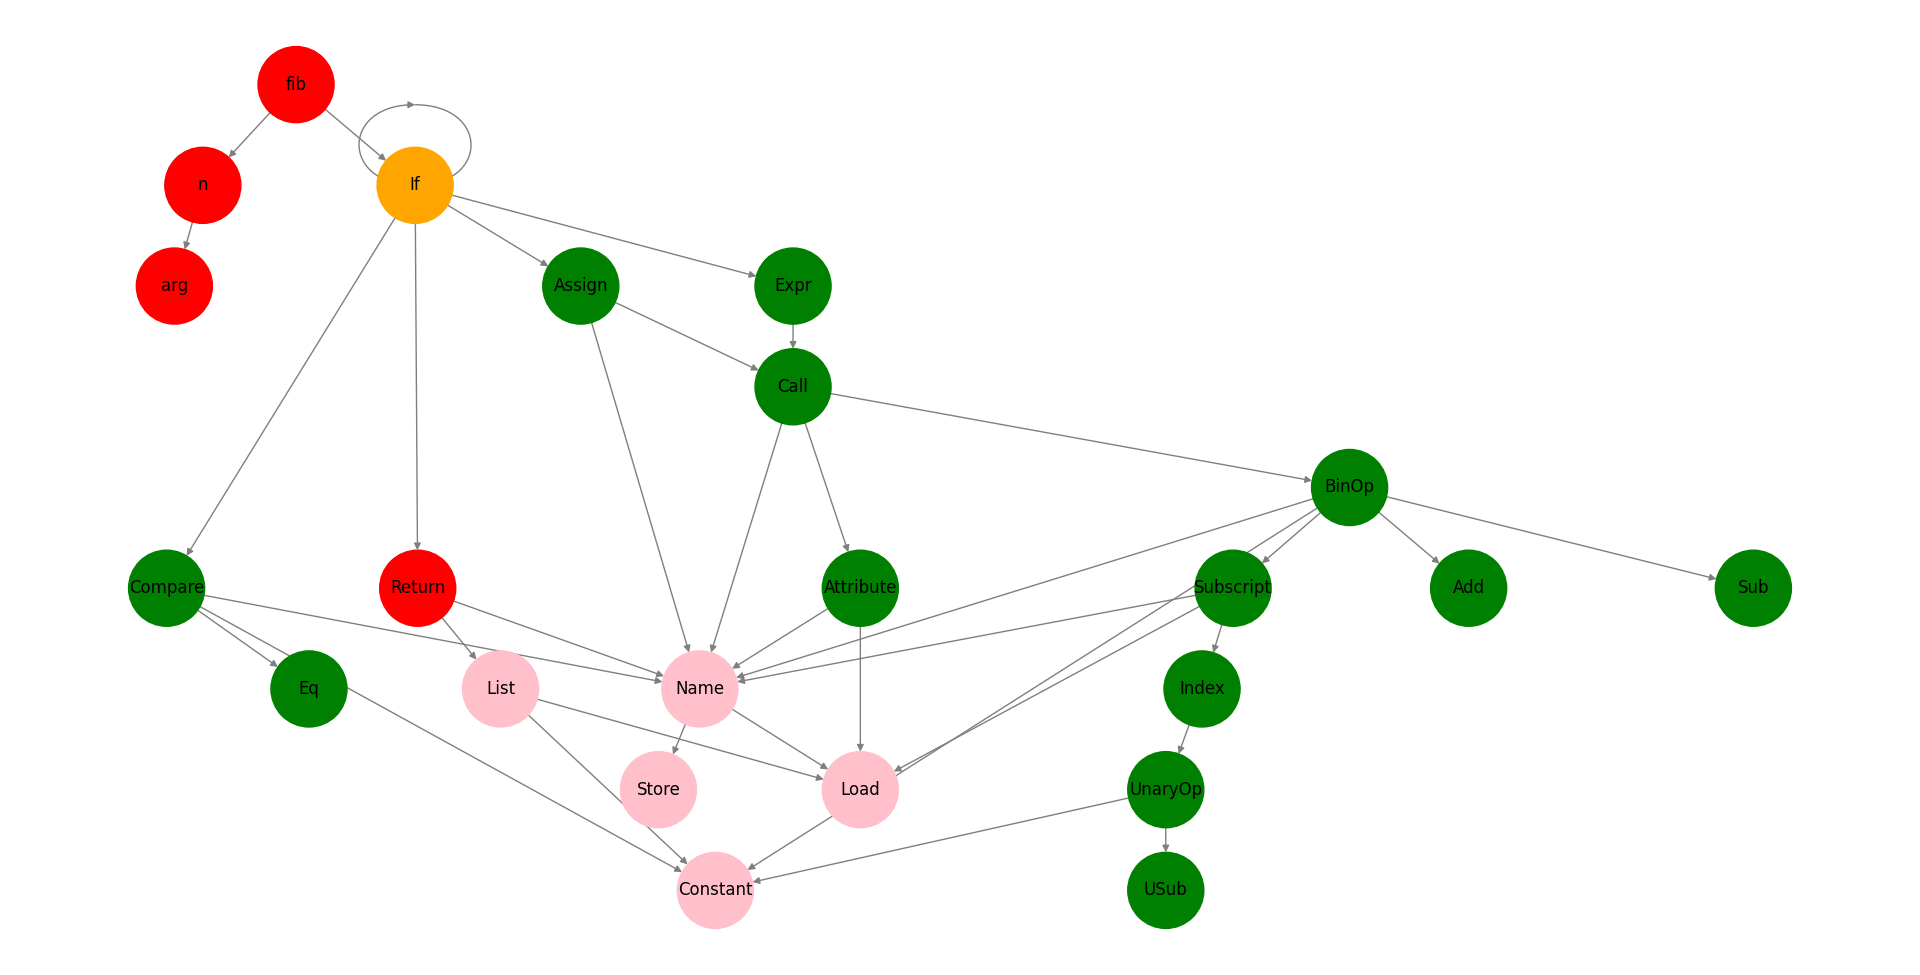
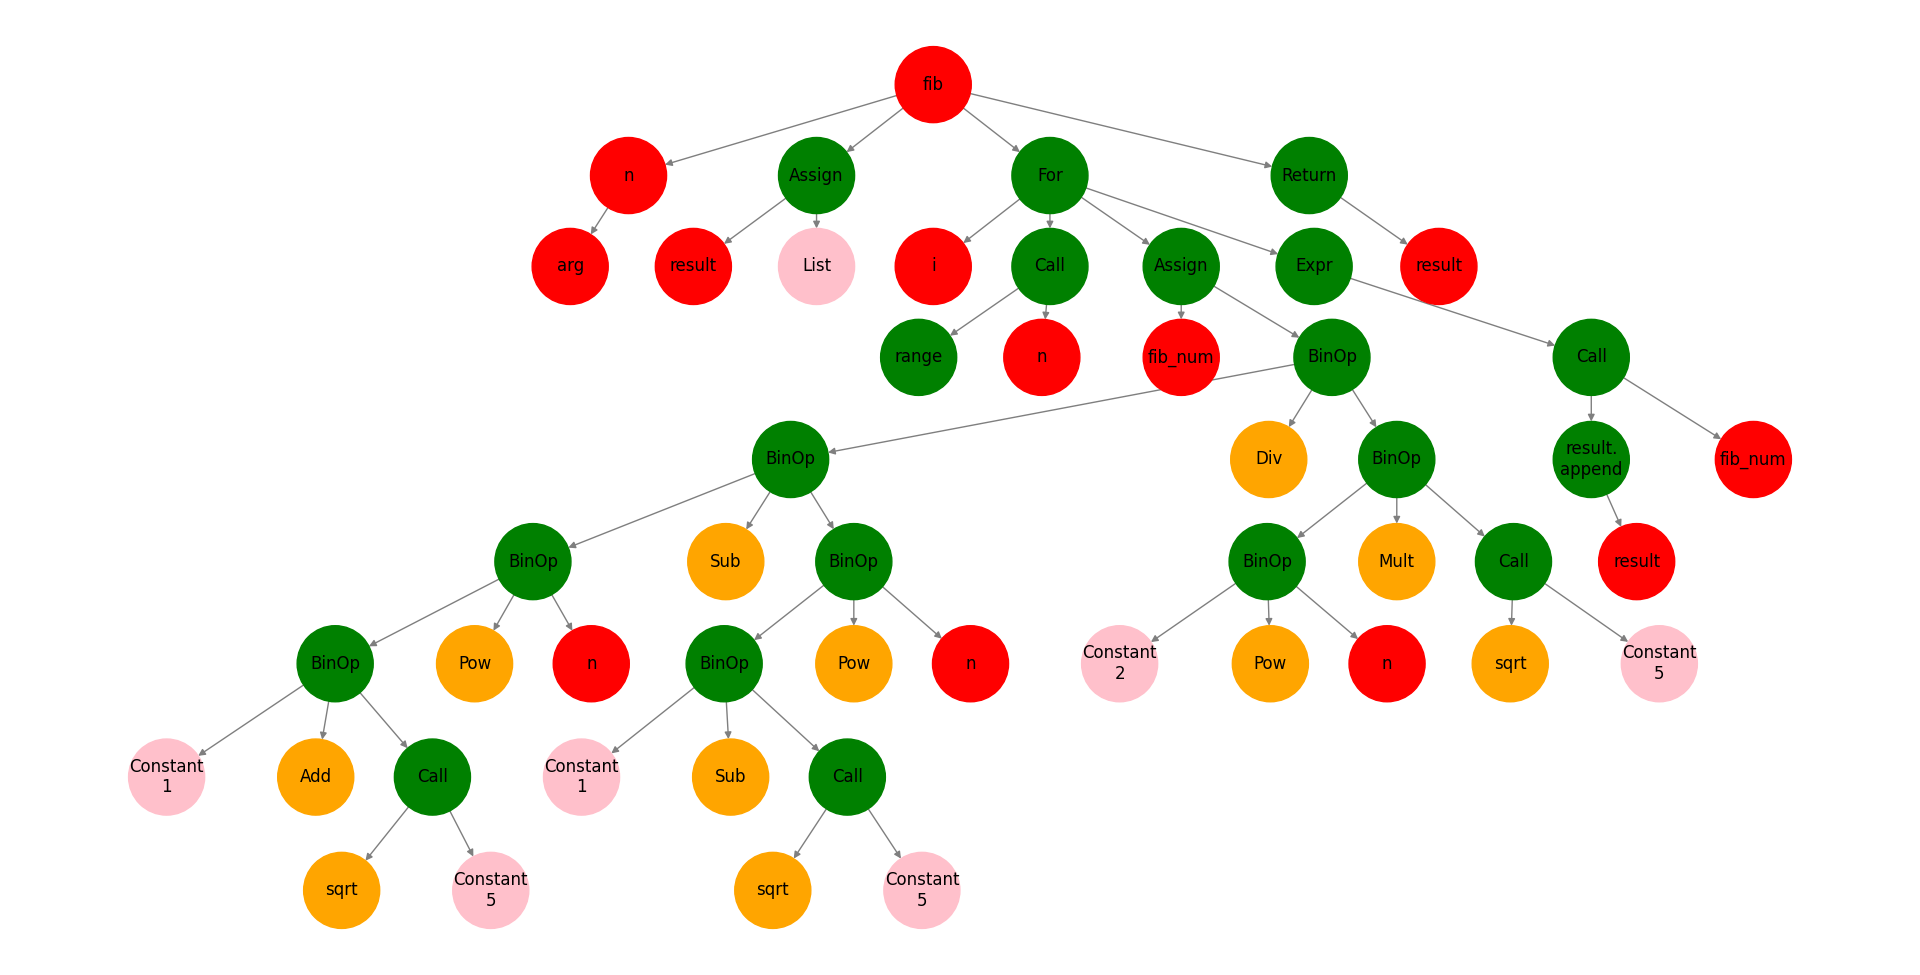
Fix hw 1 hard part

diff --git a/hw_1/hw_1.py b/hw_1/hw_1.py
@@ -1,50 +1,56 @@
 import ast
 import inspect
+import uuid
 from collections import deque
+from math import sqrt
 
+import astunparse
 import matplotlib.pyplot as plt
 import networkx as nx
 from networkx.drawing.nx_pydot import graphviz_layout
 
-
 ast_literals = ['Constant', 'List']
-ast_vars = ['Name', 'Load', 'Store']
-ast_control_flow = ['If']
+ast_math = ['Add', 'Sub', 'sqrt', 'Pow', 'Mult', 'Div']
 ast_expressions = [
     'Compare', 'Expr', 'Call', 'BinOp', 'Add', 'Eq', 'Sub', 'Subscript',
-    'UnaryOp', 'USub', 'Index', 'Attribute',
+    'UnaryOp', 'USub', 'Index', 'Attribute', 'For', 'Return'
 ]
 ast_statements = ['Assign']
-ast_functions = ['fib', 'Return', 'arg', 'n']
+ast_functions = ['fib', 'return', 'arg', 'n', 'fib_num', 'i', 'result']
 
 
 def fib(n):
-    if n == 0:
-        return [0]
-    elif n == 1:
-        return [0, 1]
-    else:
-        lst = fib(n - 1)
-        lst.append(lst[-1] + lst[-2])
-        return lst
+    result = []
+    for i in range(n):
+        fib_num = (((1 + sqrt(5)) ** n) - (1 - sqrt(5)) ** n) / (2 ** n * sqrt(5))
+        result.append(fib_num)
+    return result
 
 
 def get_node_label(node):
     if type(node) == ast.arguments:
         label = ', '.join([item.arg for item in node.args])
+    elif type(node) in [ast.Compare, ast.Name]:
+        label = astunparse.unparse(node).replace("\n", "")
+    elif type(node) == ast.Attribute:
+        label = astunparse.unparse(node).replace("\n", "").replace(".", ".\n")
+    elif type(node) == ast.Constant:
+        label = node.__class__.__name__ + "\n" + astunparse.unparse(
+            node,
+        ).replace("\n", "")
     elif hasattr(node, 'name'):
         label = node.name
     else:
         label = node.__class__.__name__
-    return label
+    return label.replace(':', '')
 
 
 def get_node_color(node_type):
     if node_type in ast_functions:
         return 'red'
-    elif node_type in ast_literals + ast_vars:
+    elif node_type in ast_literals:
         return 'pink'
-    elif node_type in ast_control_flow:
+    elif node_type in ast_math:
         return 'orange'
     return 'green'  # ast_expressions + ast_statements
 
@@ -54,17 +60,21 @@ def build_graph():
     G = nx.DiGraph()
     nodes = deque()
     start = next(ast.walk(fib_tree)).body[0]
-    nodes.append(start)
-    G.add_node(start.name)
+    start_id = str(uuid.uuid4())
+    nodes.append((start, start_id))
+    G.add_node(start_id, label=start.name)
 
     while len(nodes) != 0:
-        cur_node = nodes.pop()
+        cur_node, cur_node_id = nodes.pop()
         for node in ast.iter_child_nodes(cur_node):
+            if type(node) in [ast.Load, ast.Store]:
+                break
             node_label = get_node_label(node)
-            cur_node_label = get_node_label(cur_node)
-            G.add_node(node_label)
-            G.add_edge(cur_node_label, node_label)
-            nodes.append(node)
+            node_id = str(uuid.uuid4())
+            nodes.append((node, node_id))
+
+            G.add_node(node_id, label=node_label)
+            G.add_edge(cur_node_id, node_id)
     return G
 
 
@@ -80,14 +90,25 @@ def build_ast(G):
 
 
 def build_ast_beauty(G):
-    color_map = [get_node_color(node) for node in G]
+    color_map = []
 
     options = {
         "edge_color": "tab:gray",
         "node_size": 3000,
     }
     pos = graphviz_layout(G, prog="dot")
-    nx.draw(G, pos, with_labels=True, node_color=color_map, **options)
+    labels_dict = {}
+    for node in G.nodes(data=True):
+        labels_dict[node[0]] = node[1]['label']
+        color_map.append(get_node_color(node[1]['label'].split('\n')[0]))
+    nx.draw(
+        G,
+        pos,
+        labels=labels_dict,
+        with_labels=True,
+        node_color=color_map,
+        **options,
+    )
     plt.show()
 
 
